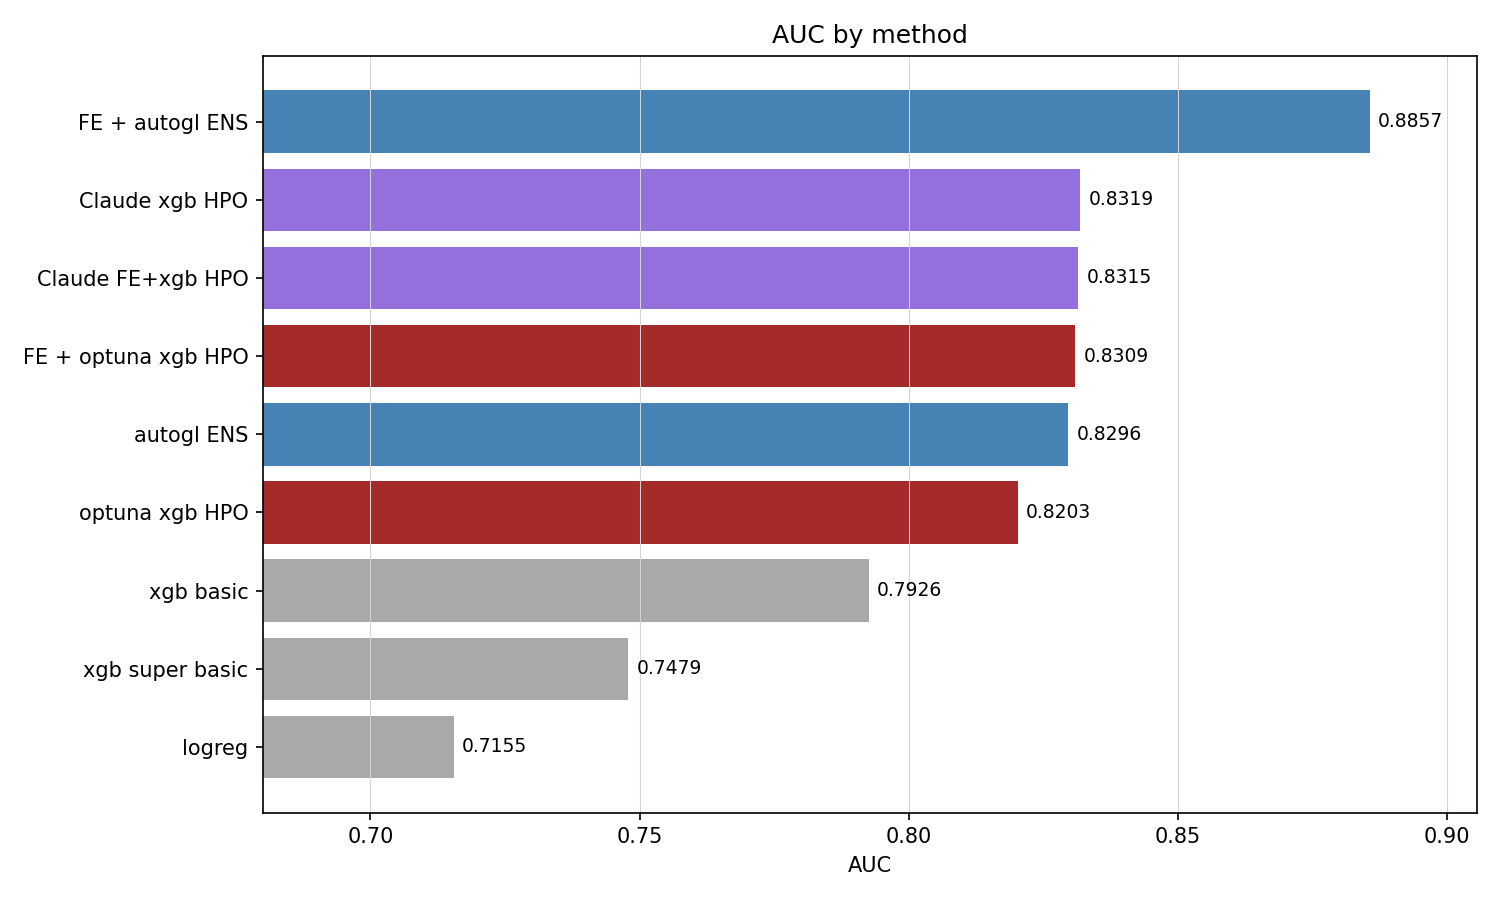
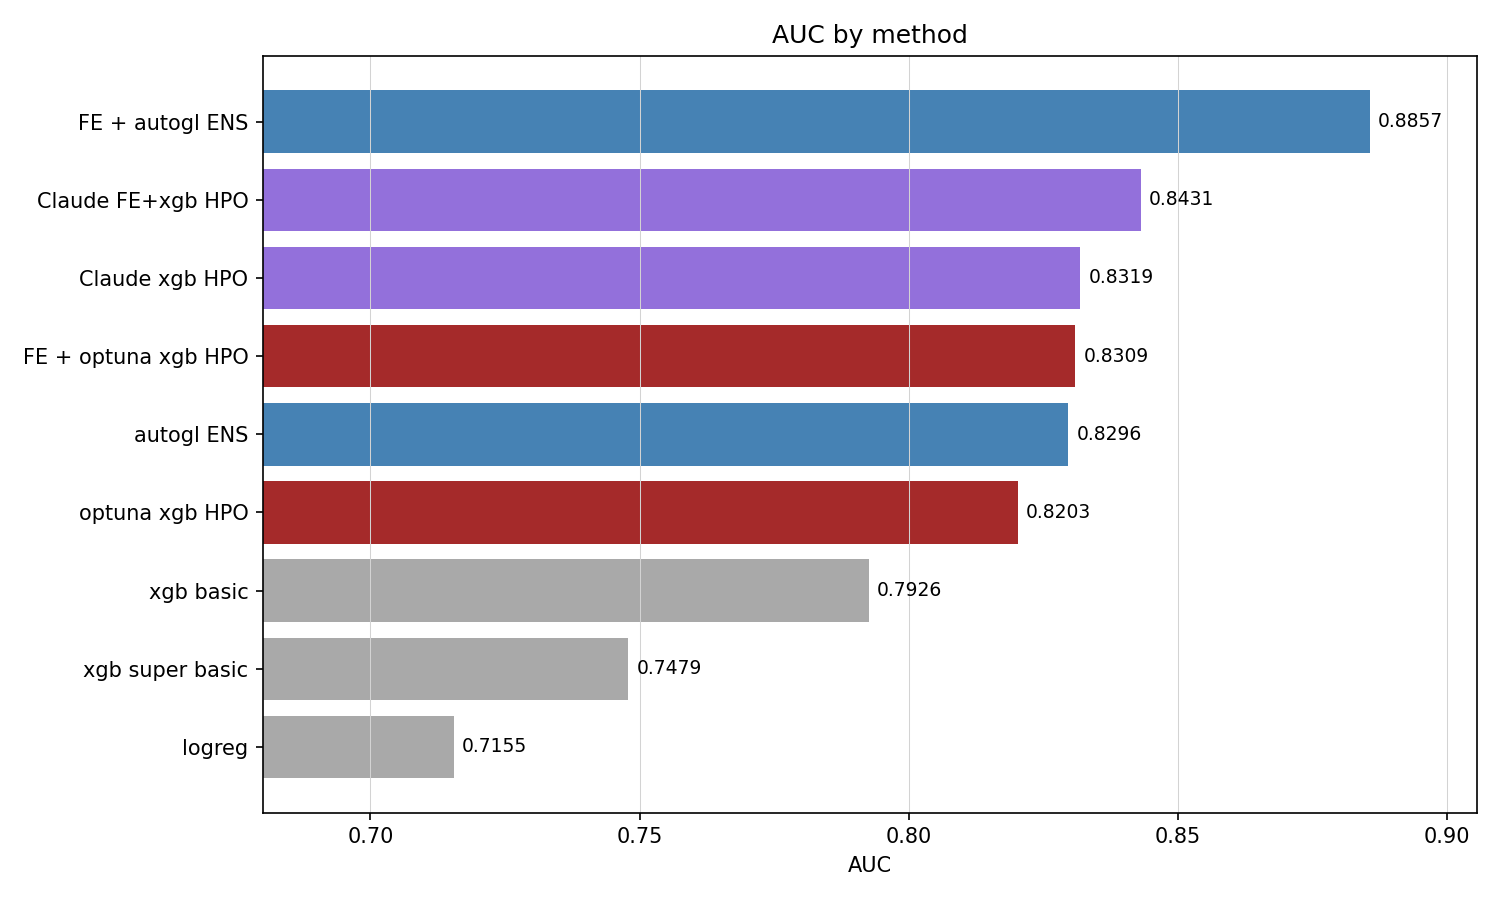
updated all methods plot (Claude FE+xgb HPO) as run1 / iter 179 (max 200)

Changed region(s): [[0.7053, 0.1867, 0.7973, 0.3111], [0.0307, 0.28, 0.1533, 0.3422], [0.0307, 0.2178, 0.1533, 0.2489]]

diff --git a/analysis/a07-compare_all_methods/plot_results_methods.py b/analysis/a07-compare_all_methods/plot_results_methods.py
@@ -2,7 +2,7 @@ import pandas as pd
 import matplotlib.pyplot as plt
 from pathlib import Path
 
-df = pd.read_csv("results-methods.csv", skipinitialspace=True)
+df = pd.read_csv(Path(__file__).parent / "results-methods.csv", skipinitialspace=True)
 df.columns = df.columns.str.strip()
 df["AUC"] = pd.to_numeric(df["AUC"], errors="coerce")
 df = df.dropna(subset=["AUC"]).sort_values("AUC")

diff --git a/analysis/a08-multi_runs/setup/plot_auc_history.py b/analysis/a08-multi_runs/setup/plot_auc_history.py
@@ -21,7 +21,7 @@ plt.plot(df.loc[keep, "n"], df.loc[keep, "test_auc_2006_full"], color="#3a8f56",
 plt.plot(df.loc[keep, "n"], df.loc[keep, "test_auc_2006_full"], marker="o", color="#3a8f56", linestyle="none", label="test 2006 full", zorder=2)
 plt.xlabel("n")
 plt.ylabel("AUC")
-plt.ylim(ymin=0.70, ymax=0.85)
+plt.ylim(ymin=0.70, ymax=0.86)
 plt.title("AUC vs n")
 plt.grid(True, color="lightgrey", linewidth=0.5)
 plt.legend()